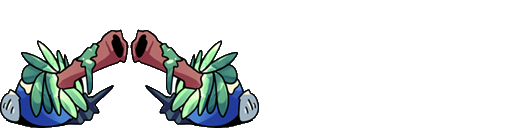
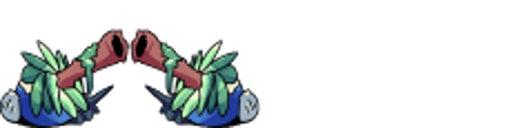
Added Flier/Cannon/Smasher
As the title says, added the sprites for the cannon, flier, and smasher. Edited additional files to fit the sizes of the new sprites or pass them into their constructors.

Changed region(s): [[0.0, 0.2188, 0.5312, 1.0]]

diff --git a/public_html/src/MyGame/Objects/Cannon.js b/public_html/src/MyGame/Objects/Cannon.js
@@ -16,6 +16,7 @@
  * The Cannon is a stationary object that the Hero can jump on without taking damage that
  * periodically shoots projectiles in its facing direction.
  *
+ * @param {TextureInfo} projTexture The texturesheet for the flier's projectiles.
  * @param {TextureInfo} spriteTexture The texturesheet for the cannon's sprite. Should be extended to have
  *     a "mirrored" sprite version as well so the patrol can flip between left/right facing.
  * @param {float} spawnX The X coord to start the object at
@@ -30,15 +31,16 @@
  *      should ALWAYS be positive!
  * @returns {Cannon}
  */
-function Cannon(spriteTexture, spawnX, spawnY, heroRef, setRef, facingLeft = true, health = 3, shootTimer = 210,
+function Cannon(projTexture, spriteTexture, spawnX, spawnY, heroRef, setRef, facingLeft = true, health = 3, shootTimer = 210,
         projectileTimer = 180, projectileDelta = 0.525) {
     this.kWidth = 7;
-    this.kHeight = 7;
+    this.kHeight = 6;
     this.mHeroRef = heroRef;
     this.mSetRef = setRef;
     this.mShootTimerMax = shootTimer;
     this.mShootTimerCurr = shootTimer;
     this.mSpriteText = spriteTexture;
+    this.mProjText = projTexture;
     this.mProjectileTimer = projectileTimer;
     this.mProjectileDelta = projectileDelta;
     this.mFacingLeft = facingLeft;
@@ -51,11 +53,19 @@ function Cannon(spriteTexture, spawnX, spawnY, heroRef, setRef, facingLeft = tru
     this.mCannon.getXform().setPosition(spawnX, spawnY);
     this.mCannon.getXform().setSize(this.kWidth, this.kHeight);
     if(facingLeft){
+        this.mCannon.setElementPixelPositions(130,259,0,99);
+    } else
+    {   //left, right, bot, top
+        this.mCannon.setElementPixelPositions(0,129,0,99);
+    }
+    /*
+    if(facingLeft){
         this.mCannon.setElementPixelPositions(0,64,256-64,256);
     } else
     {   //left, right, bot, top
         this.mCannon.setElementPixelPositions(64,128,256-64,256); 
     }
+    */
     
     
     // simplified minimap renderable
@@ -103,7 +113,7 @@ Cannon.prototype.update = function () {
         if(this.mFacingLeft)
             delta = 0 - delta;
         
-        var bullet = new Projectile(this.mSpriteText,currPos[0], currPos[1], this.mHeroRef, this, delta, this.mProjectileTimer);
+        var bullet = new Projectile(this.mProjText,currPos[0], currPos[1], this.mHeroRef, this, delta, this.mProjectileTimer);
         //bullet.setDeflectionKills(false);
         this.mSetRef.addToSet(bullet);
     }

diff --git a/public_html/src/MyGame/GameSceneMethods.js b/public_html/src/MyGame/GameSceneMethods.js
@@ -55,7 +55,8 @@ GameScene.prototype.parseObjects = function (sceneInfo) {
             pos = cannons[i].Pos;    
             facing = cannons[i].Facing;
             // init cannon
-            cannon = new Cannon(this.kSprites2, pos[0], pos[1], this.mKelvin, this.mAllNonPhysObj, facing);
+            //cannon = new Cannon(this.kSprites2, pos[0], pos[1], this.mKelvin, this.mAllNonPhysObj, facing);
+            cannon = new Cannon(this.kSprites2, this.kCannon, pos[0], pos[1], this.mKelvin, this.mAllNonPhysObj, facing);
             this.mAllPlatform.addToSet(cannon);
             //this.mAllObjs.addToSet(cannon);
         }
@@ -67,7 +68,8 @@ GameScene.prototype.parseObjects = function (sceneInfo) {
         var i, pos, flier;
         for (i = 0; i < fliers.length; i++) {
             pos = fliers[i].Pos;    
-            flier = new Flier(this.kSprites2,this.kSprites, pos[0], pos[1], this.mKelvin, this.mAllNonPhysObj);
+            //flier = new Flier(this.kSprites2,this.kSprites, pos[0], pos[1], this.mKelvin, this.mAllNonPhysObj);
+            flier = new Flier(this.kSprites2,this.kFlier, pos[0], pos[1], this.mKelvin, this.mAllNonPhysObj);
             this.mAllPlatform.addToSet(flier);
             //this.mAllObjs.addToSet(flier);
         }
@@ -86,7 +88,9 @@ GameScene.prototype.parseObjects = function (sceneInfo) {
             dVelocity = smashers[i].velocityDown;
 
             // init smashers
-            smasher = new Smasher(this.kSprites2, pos[0], pos[1], this.mKelvin, 
+            //smasher = new Smasher(this.kSprites2, pos[0], pos[1], this.mKelvin, 
+            //    tBound, bBound, uVelocity, dVelocity);
+            smasher = new Smasher(this.kSmasher, pos[0], pos[1], this.mKelvin, 
                 tBound, bBound, uVelocity, dVelocity);
             //this.mAllObjs.addToSet(smasher);
             this.mAllPlatform.addToSet(smasher);

diff --git a/public_html/src/MyGame/Objects/Flier.js b/public_html/src/MyGame/Objects/Flier.js
@@ -34,8 +34,8 @@ function Flier(projTexture, spriteTexture, spawnX, spawnY, heroRef, setRef, heal
         patrolDist = 15, patrolTimer = 400) {
     // Renderable Vars
     this.mSpriteText = spriteTexture;
-    this.kWidth = 3;
-    this.kHeight = 5.25;
+    this.kWidth = 6;
+    this.kHeight = 4;
     
     //projectile texture
     this.mProjText = projTexture;
@@ -65,7 +65,8 @@ function Flier(projTexture, spriteTexture, spawnX, spawnY, heroRef, setRef, heal
     this.mFlier.setColor([1, 1, 1, 0]);
     this.mFlier.getXform().setPosition(spawnX, spawnY);
     this.mFlier.getXform().setSize(this.kWidth, this.kHeight);
-    this.mFlier.setElementPixelPositions(598,598+104,2,2+180);
+    //this.mFlier.setElementPixelPositions(598,598+104,2,2+180);
+    this.mFlier.setElementPixelPositions(0,157,0,121);
     
     // Interpolation vars for patrolling
     this.mInterpolatePos = new InterpolateVec2(

diff --git a/public_html/src/MyGame/Objects/Smasher.js b/public_html/src/MyGame/Objects/Smasher.js
@@ -44,7 +44,8 @@ function Smasher(spriteTexture, spawnX, spawnY, heroRef, topBound = (spawnY + 7.
     this.mSmasher.setColor([1, 1, 1, 0]);
     this.mSmasher.getXform().setPosition(spawnX, spawnY);
     this.mSmasher.getXform().setSize(this.kWidth, this.kHeight);
-    this.mSmasher.setElementPixelPositions(0,64,64,128);
+    //this.mSmasher.setElementPixelPositions(0,64,64,128);
+    this.mSmasher.setElementPixelPositions(0,97,0,61);
     
     this.mMinimapObj = new Renderable();
     this.mMinimapObj.setColor([1, .2, .2, 1]);
